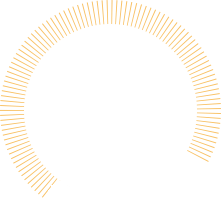
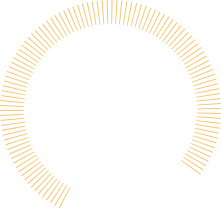
made open animation and fixed scroller

Changed region(s): [[0.19, 0.8145, 0.3258, 0.9502], [0.8145, 0.6787, 0.9231, 0.7873]]

diff --git a/js/app.js b/js/app.js
@@ -1,32 +1,33 @@
 (function(){	
 	class Scroller {
-		constructor(selector, rows, blockWidth, margin){
+		constructor(selector, margin){
 			this.selector = selector;
-			this.blockWidth = blockWidth;
-			this.rows = rows;
 			this.margin = margin;
 			this.isOverflow;
-			this.isListenerForward = false; //check if is listener of forward arrow
-			this.isListenerBack = false; //check if is listener of back arrow
 			
 			this.listenToScreenChange();
-			this.listenToOverflow();
+			this.handleScrollForward();
+			this.handleScrollBack();
+			this.checkOverflow();
 		}
 		
-		listenToOverflow(){
-			let totalWidth = document.getElementById(this.selector).offsetWidth;
+		checkOverflow(){
+			let w = document.getElementById(this.selector).offsetWidth;
+			let h = document.getElementById(this.selector).offsetHeight;	
+			let totalSize = h * w;
 			let children = document.querySelectorAll(`.${this.selector}-children`);
 			
 			let sum = 0;
 			
 			children.forEach(child => {
 				if(child.offsetWidth > 0)
-					sum += child.offsetWidth + this.margin;
+					sum += (child.offsetWidth + this.margin ) * (child.offsetHeight + this.margin);
 			})
-			
-			this.isOverflow = (totalWidth < (sum / this.rows))
+			console.log(totalSize)
+			console.log(sum)
+			this.isOverflow = (totalSize < sum)
 		
-			if (totalWidth < (sum / this.rows)) {
+			if (this.isOverflow) {
 				this.handleOverflow();
 				this.handleScrollForward();
 			} else {
@@ -36,7 +37,7 @@
 		
 		listenToScreenChange(){
 			window.addEventListener('resize', (e) => {
-				this.listenToOverflow();
+				this.checkOverflow();
 			});
 		}
 				
@@ -51,55 +52,52 @@
 		
 		handleUnderflow(){
 			try{
-				document.querySelector(`.forward-arrows-${this.selector}.active-arrow`).classList.remove('active-arrow');
+				document.querySelector(`.forward-arrows-${this.selector}`).classList.remove('active-arrow');
 			} catch(e){
 				console.log(e);
 			}
 		}
 		
 		handleScrollForward(){
-			if(!this.isListenerForward) //add listener once
-				document.querySelector(`.forward-arrows-${this.selector}.active-arrow`).addEventListener('click',(e)=>{
-					this.isListenerForward = true;
-					this.listenToOverflow();
+			document.querySelector(`.forward-arrows-${this.selector}`).addEventListener('click',(e)=>{
+				
+				if(this.isOverflow) {
+					let element = document.getElementById(this.selector).getElementsByClassName(`${this.selector}-children`)[0];
+					element.classList.add('hiddenByScroll');
+					setTimeout(()=>{
+						element.classList.add(`${this.selector}-children-hidden`);
+						element.classList.add(`hidden`);
+						element.classList.remove(`${this.selector}-children`);
+					}, 100);
 					
-					if(this.isOverflow) {
-						let element = document.getElementById(this.selector).getElementsByClassName(`${this.selector}-children`)[0];
-						element.classList.add('hiddenByScroll');
-						setTimeout(()=>{
-							element.classList.add(`${this.selector}-children-hidden`);
-							element.classList.add(`hidden`);
-							element.classList.remove(`${this.selector}-children`);
-						}, 100);
-						
-						if(!document.querySelector(`.back-arrows-${this.selector}`).classList.contains('active-arrow')) {
-							document.querySelector(`.back-arrows-${this.selector}`).classList.add('active-arrow');
-							this.handleScrollBack();
-						}	
-					}
+					this.checkOverflow();
+				
+					if(!document.querySelector(`.back-arrows-${this.selector}`).classList.contains('active-arrow')) {
+						document.querySelector(`.back-arrows-${this.selector}`).classList.add('active-arrow');
+					}	
+				}
 				})
 		}
 		
 		handleScrollBack(){
-			if(!this.isListenerBack) //add listener once
-				document.querySelector(`.back-arrows-${this.selector}.active-arrow`).addEventListener('click',(e)=>{
-					this.isListenerBack = true;
-					this.listenToOverflow();
-					
-					let hq = document.getElementById(this.selector).getElementsByClassName(`${this.selector}-children-hidden`).length;
-					
-					if(hq > 0) {
-						let element = document.getElementById(this.selector).getElementsByClassName(`${this.selector}-children-hidden`)[hq-1];
-						element.classList.remove('hiddenByScroll');
-						element.classList.remove('hidden');
-						element.classList.add(`${this.selector}-children`);
-						element.classList.remove(`${this.selector}-children-hidden`);
-					}
-					
-					if(hq === 1)
-						document.querySelector(`.back-arrows-${this.selector}.active-arrow`).classList.remove('active-arrow');
-					
-				})
+			document.querySelector(`.back-arrows-${this.selector}`).addEventListener('click',(e)=>{
+				
+				let hq = document.getElementById(this.selector).getElementsByClassName(`${this.selector}-children-hidden`).length;
+				
+				if(hq > 0) {
+					let element = document.getElementById(this.selector).getElementsByClassName(`${this.selector}-children-hidden`)[hq-1];
+					element.classList.remove('hiddenByScroll');
+					element.classList.remove('hidden');
+					element.classList.add(`${this.selector}-children`);
+					element.classList.remove(`${this.selector}-children-hidden`);
+				}
+				
+				this.checkOverflow();
+				
+				if(hq === 1)
+					document.querySelector(`.back-arrows-${this.selector}.active-arrow`).classList.remove('active-arrow');
+				
+			})
 		}
 		
 	}
@@ -115,10 +113,14 @@
 		addClickListener(){
 			let listener = function(e) {
 					if(!e.target.classList.contains('controlButton')) {
-						this.classList.add('popup-device-panel');
-						this.getElementsByClassName('smallview')[0].classList.add('hidden');
-						this.getElementsByClassName('popupview')[0].classList.remove('hidden');
-						document.querySelector('.blur').classList.remove('hidden');
+						this.classList.add('openAnimation');
+						setTimeout(()=>{
+							this.classList.add('popup-device-panel');	
+							this.getElementsByClassName('smallview')[0].classList.add('hidden');
+							this.getElementsByClassName('popupview')[0].classList.remove('hidden');
+							this.classList.remove('openAnimation');
+							document.querySelector('.blur').classList.remove('hidden');
+						},100)
 						e.target.removeEventListener('click', listener, false);
 					}
 			}
@@ -165,12 +167,9 @@
 			let parentNode =  document.getElementById(this.selector);
 			let children = parentNode.getElementsByClassName(`${this.selector}-children`);
 			let scrollBlock = children[0];
-			let highPanel = '';
-			if (scrollBlock.classList.contains('high-panel')) //check if removed block is high-panel popup block
-				highPanel = 'high-panel';
 			let scrollBlockHTML = scrollBlock.innerHTML;
 			let newBlock = document.createElement('div');
-			newBlock.className = `${this.selector}-children ${this.styleClass} ${highPanel}`;
+			newBlock.className = `${this.selector}-children ${this.styleClass}`;
 			let oldBlock = parentNode.getElementsByClassName(`${this.selector}-children`)[0];
 			oldBlock.parentNode.removeChild(oldBlock);
 			parentNode.appendChild(newBlock);
@@ -255,8 +254,8 @@
 		}
 	}
 	
-	let deviceScroller = new Scroller('devices', 1, 200, 15);
-	let scenariosScroller = new Scroller('scenarios', 3, 200, 15);
+	let deviceScroller = new Scroller('devices', 15);
+	let scenariosScroller = new Scroller('scenarios', 15);
 	let deiceBlockScroller = new InfiniteScroller('device-block', 'device-panel');
 	let devicePopup = new DevicePopup('device-panel');
 	let navbarCollapser = new NavbarCollapser('home-navbar-button', 'menu-mobile', 'home-navbar');

diff --git a/css/index.css b/css/index.css
@@ -29,6 +29,7 @@ a, a:hover {
 	position:absolute;
 	background: rgba(51,51,51,0.50);
 	z-index:2000;
+	filter:blur(5px);
 }
 
 .hidden {
@@ -362,6 +363,7 @@ a, a:hover {
 
 .devices-header {
 	margin-top:34px;
+	margin-right:50px;
 	margin-bottom:15px;
 }
 
@@ -433,7 +435,6 @@ a, a:hover {
 }
 
 .device-panel {
-	height:120px;
 	width:200px;
 	min-width:200px;
 	min-height:120px;
@@ -457,20 +458,31 @@ a, a:hover {
 }
 
 .popup-device-panel {
-	height:238px;
 	position:fixed;
 	top:100px;
 	left:30%;
 	width:630px;
 	margin-top:100px;
 	z-index:2500;
-	background-color:#FFFFFF;
+	background-color:#FFFFFF; 
 }
 
-.popup-device-panel.high-panel {
-	height:367px;
+.openAnimation {
+	position:fixed;
+	background-color:#FFFFFF; 
+    animation: openWide 0.1s linear;
 }
 
+@keyframes openWide {
+    0% { 
+		width:200px;
+		height:120px;
+	}
+    100% { 
+		width:630px;
+		height:400px;
+	}
+}
 .popupview {
 	padding: 26px 25px 25px 25px;
 }
@@ -482,6 +494,7 @@ a, a:hover {
 
 .popupState {
 	font-family: ArialMT;
+	margin-top:6px;
 	font-size: 14px;
 	color: #333333;
 }
@@ -506,6 +519,7 @@ a, a:hover {
 
 .popupButtonPanel {
 	margin-top:20px;
+	height:30px;
 }
 
 .popupButton {

diff --git a/css/media.css b/css/media.css
@@ -220,8 +220,8 @@
 	}
 	
 	.popupSlider {
-		margin:auto;
 		margin-top:25px;
+		margin-left:117px;
 		width:60px;
 		height:336px;
 	}
